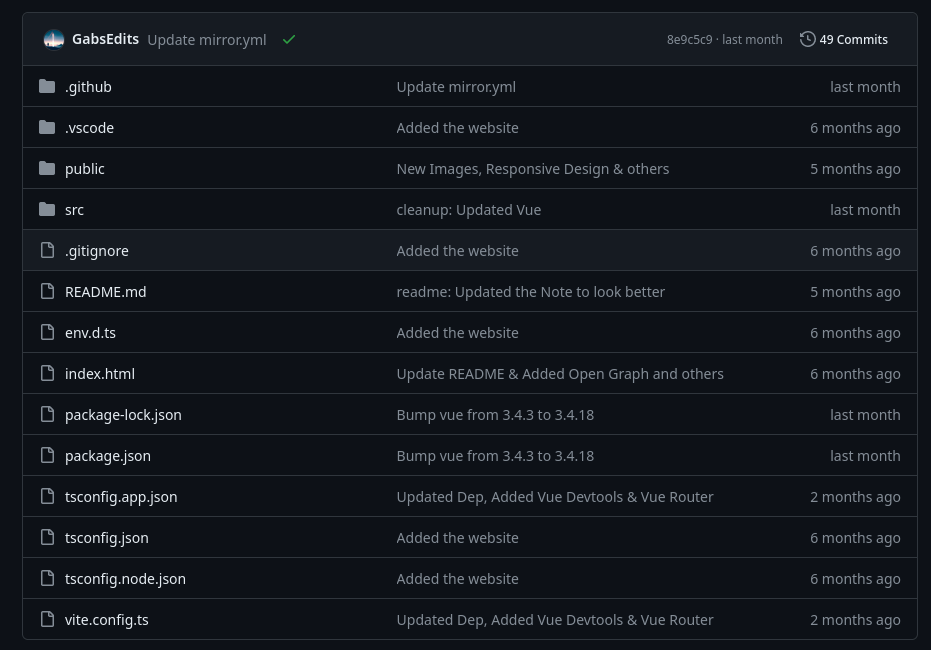
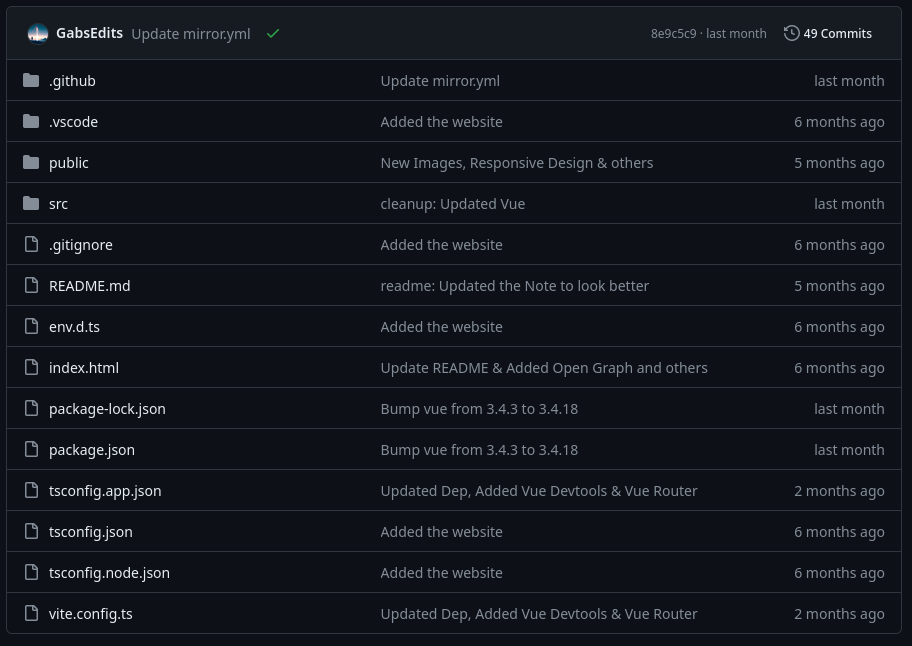
feat: New Description, Updated meta tags and dark/light blog screenshots

diff --git a/pages/blog/posts/changing-up-my-website.md b/pages/blog/posts/changing-up-my-website.md
@@ -41,9 +41,14 @@ Sure, it's not the most original idea, but I'm all about readability > originali
 Surprisingly (or not), Aplós made things a breeze. Most of the time spend was on making the content, not
 the looks. The cool thing was, I only had to set up the `config.mts` the way I liked it and then just create the pages I needed using something as simple as Markdown (`index.md`, `projects.md`, & `findme.md`). When thinking about how to show my projects, I thought, why not reuse the style I used for the Posts List on the blog? Seemed easy, and got it working, and boom.
 
-[![Screenshot of me writing this blog](/assets/blog/changing-up-my-website/screenshot.png)](/assets/blog/changing-up-my-website/screenshot.png)
+<a href="https://github.com/semantichtml/semantichtml.github.io/tree8e9c5c9972e86b98888084bd86419982d94c8ca6">
+<picture>
+<source srcset="/assets/blog/changing-up-my-website/screenshot-dark.png" media="(prefers-color-scheme:dark)">
+<img src="/assets/blog/changing-up-my-website/screenshot.png" alt="Screenshot of me writing this blog in Apostrophe">
+</picture>
+</a>
 
-<figcaption>Screenshot of me writing this blog in Apostrophe Dark Mode</figcaption>
+<figcaption>Screenshot of me writing this blog in Apostrophe</figcaption>
 
 ## A Fresh Structure
 

diff --git a/pages/blog/posts/my-time-with-vitepress.md b/pages/blog/posts/my-time-with-vitepress.md
@@ -29,9 +29,13 @@ If you're not aware, I have a small project called "Semantic HTML Documentation.
 
 Until recently, I used Vue & Vite to build the website and GitHub Pages to host it. And it was a big mess.
 
-[![A screenshot of the old files of the Semantic HTML Website on GitHub](/assets/blog/my-experience-with-vitepress/image.png)](https://github.com/semantichtml/semantichtml.github.io/tree/8e9c5c9972e86b98888084bd86419982d94c8ca6)
-
-<figcaption>A screenshot of the old files of the Semantic HTML Website on GitHub</figcaption>
+<a href="https://github.com/semantichtml/semantichtml.github.io/tree8e9c5c9972e86b98888084bd86419982d94c8ca6">
+<picture>
+<source srcset="/assets/blog/my-experience-with-vitepress/image.png" media="(prefers-color-scheme:dark)">
+<img src="/assets/blog/my-experience-with-vitepress/image-light.png" alt="A screenshot of the old files of the Semantic HTML Website on GitHub">
+</picture>
+</a>
+<figcaption style="margin-top: 10px">A screenshot of the old files of the Semantic HTML Website on GitHub</figcaption>
 
 It was more complicated than necessary. So, just minutes before going to sleep yesterday, I had a great idea: to rebuild the website from Vue & Vite to VitePress. And I got to work!
 
